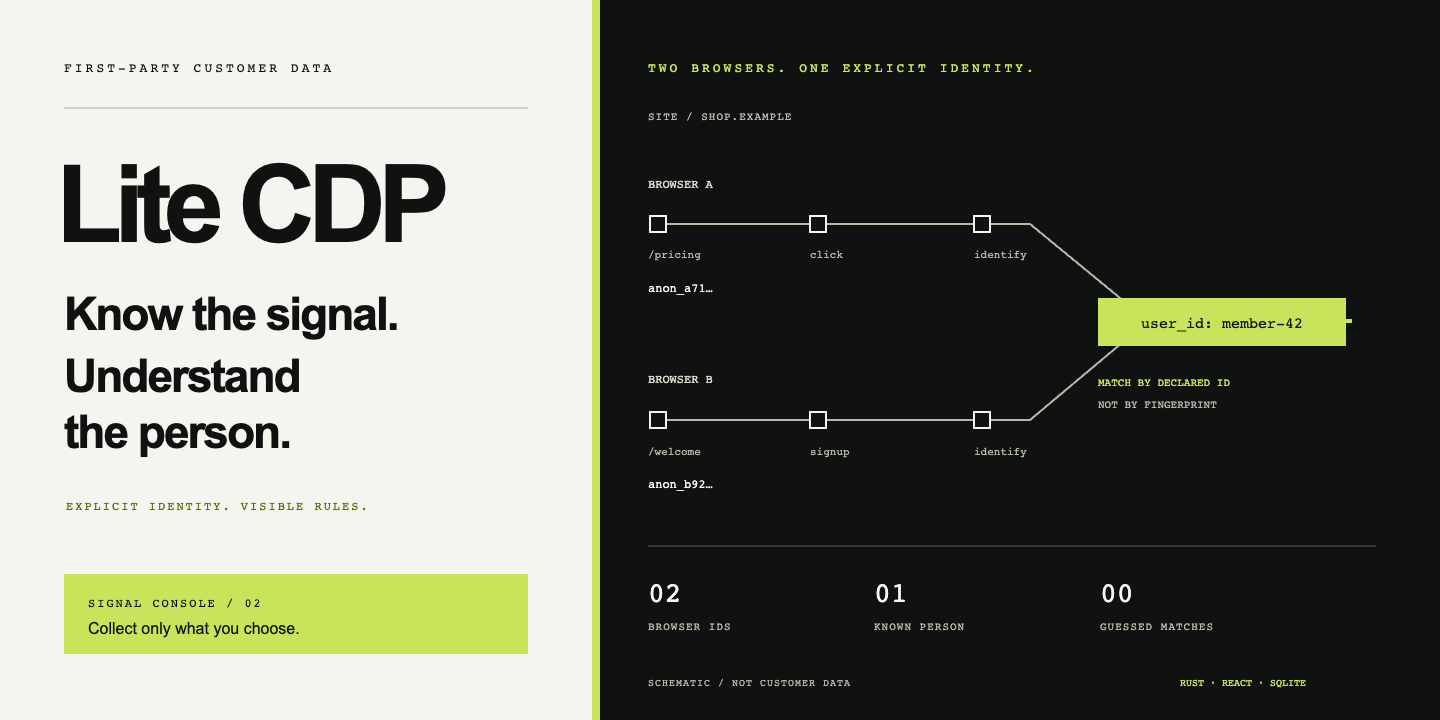
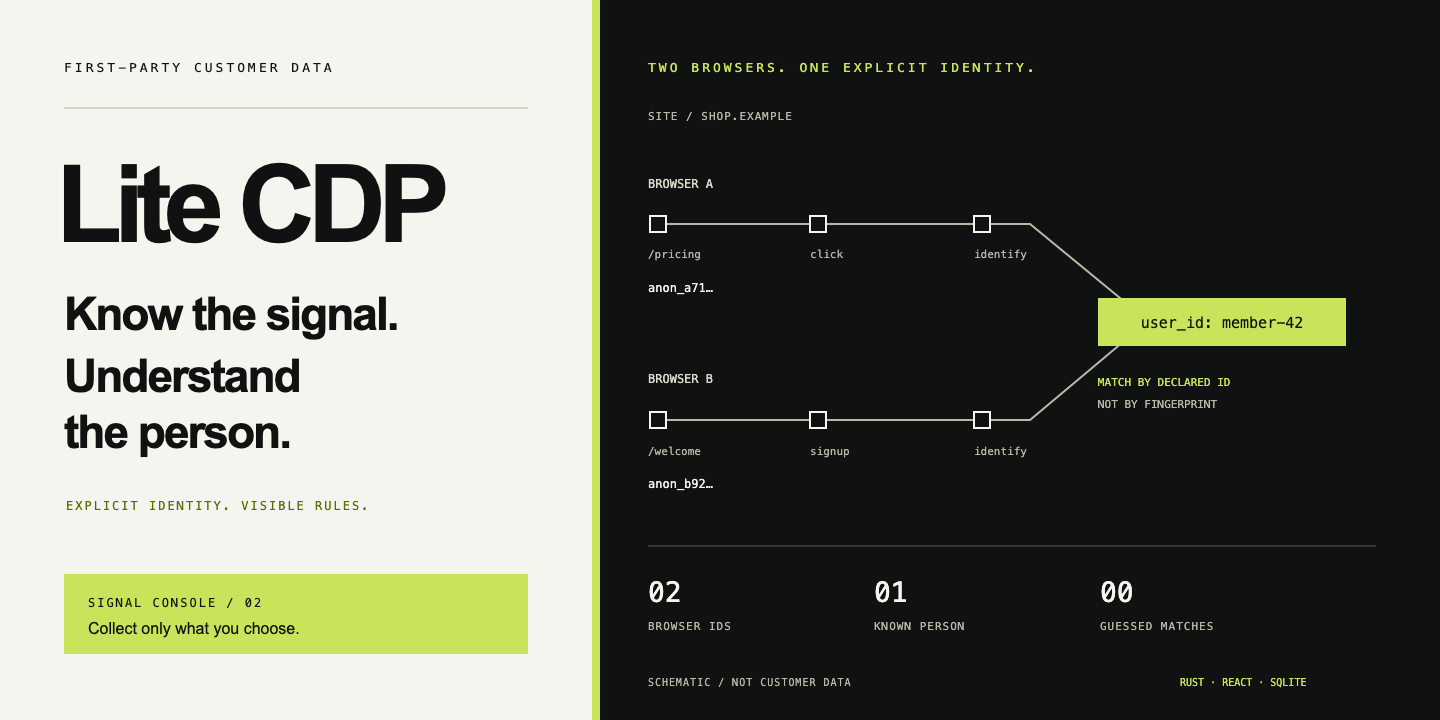
docs: remove stray line from CDP cover (#10)

diff --git a/docs/signal-console-verification.md b/docs/signal-console-verification.md
@@ -29,6 +29,8 @@ Tests use disposable SQLite databases, a local fictitious shop, generated test c
 - [Editable SVG cover](images/cover.svg), [cover preview](images/cover-preview.png), [identity lab](images/signal-identity-light.png), [dark lab](images/signal-identity-dark.png), [mobile lab](images/signal-identity-mobile.png), [framework teaching](images/signal-install-light.png).
 - README overview/people/person/labels/segment/install/journey/mobile screenshots were refreshed from the same current build. Old `workflow-*` images and their older verification documents remain historical artifacts; README now features Signal Console captures.
 
+Cover cleanup: removed the obscured line segment that protruded 6 px beyond the member-ID card. The exact SVG was rendered in Chrome and visually checked at 1440 × 720 and a 900 × 450 README size; `cover-preview.png` was refreshed from the full-size render. The two-browser identity schematic and all text remain unchanged. This vector-only correction did not require application tests.
+
 ```sh
 CARGO_BUILD_JOBS=2 CARGO_PROFILE_DEV_DEBUG=0 CARGO_PROFILE_TEST_DEBUG=0 \
   cargo test --manifest-path src/api/Cargo.toml -- --test-threads=2
